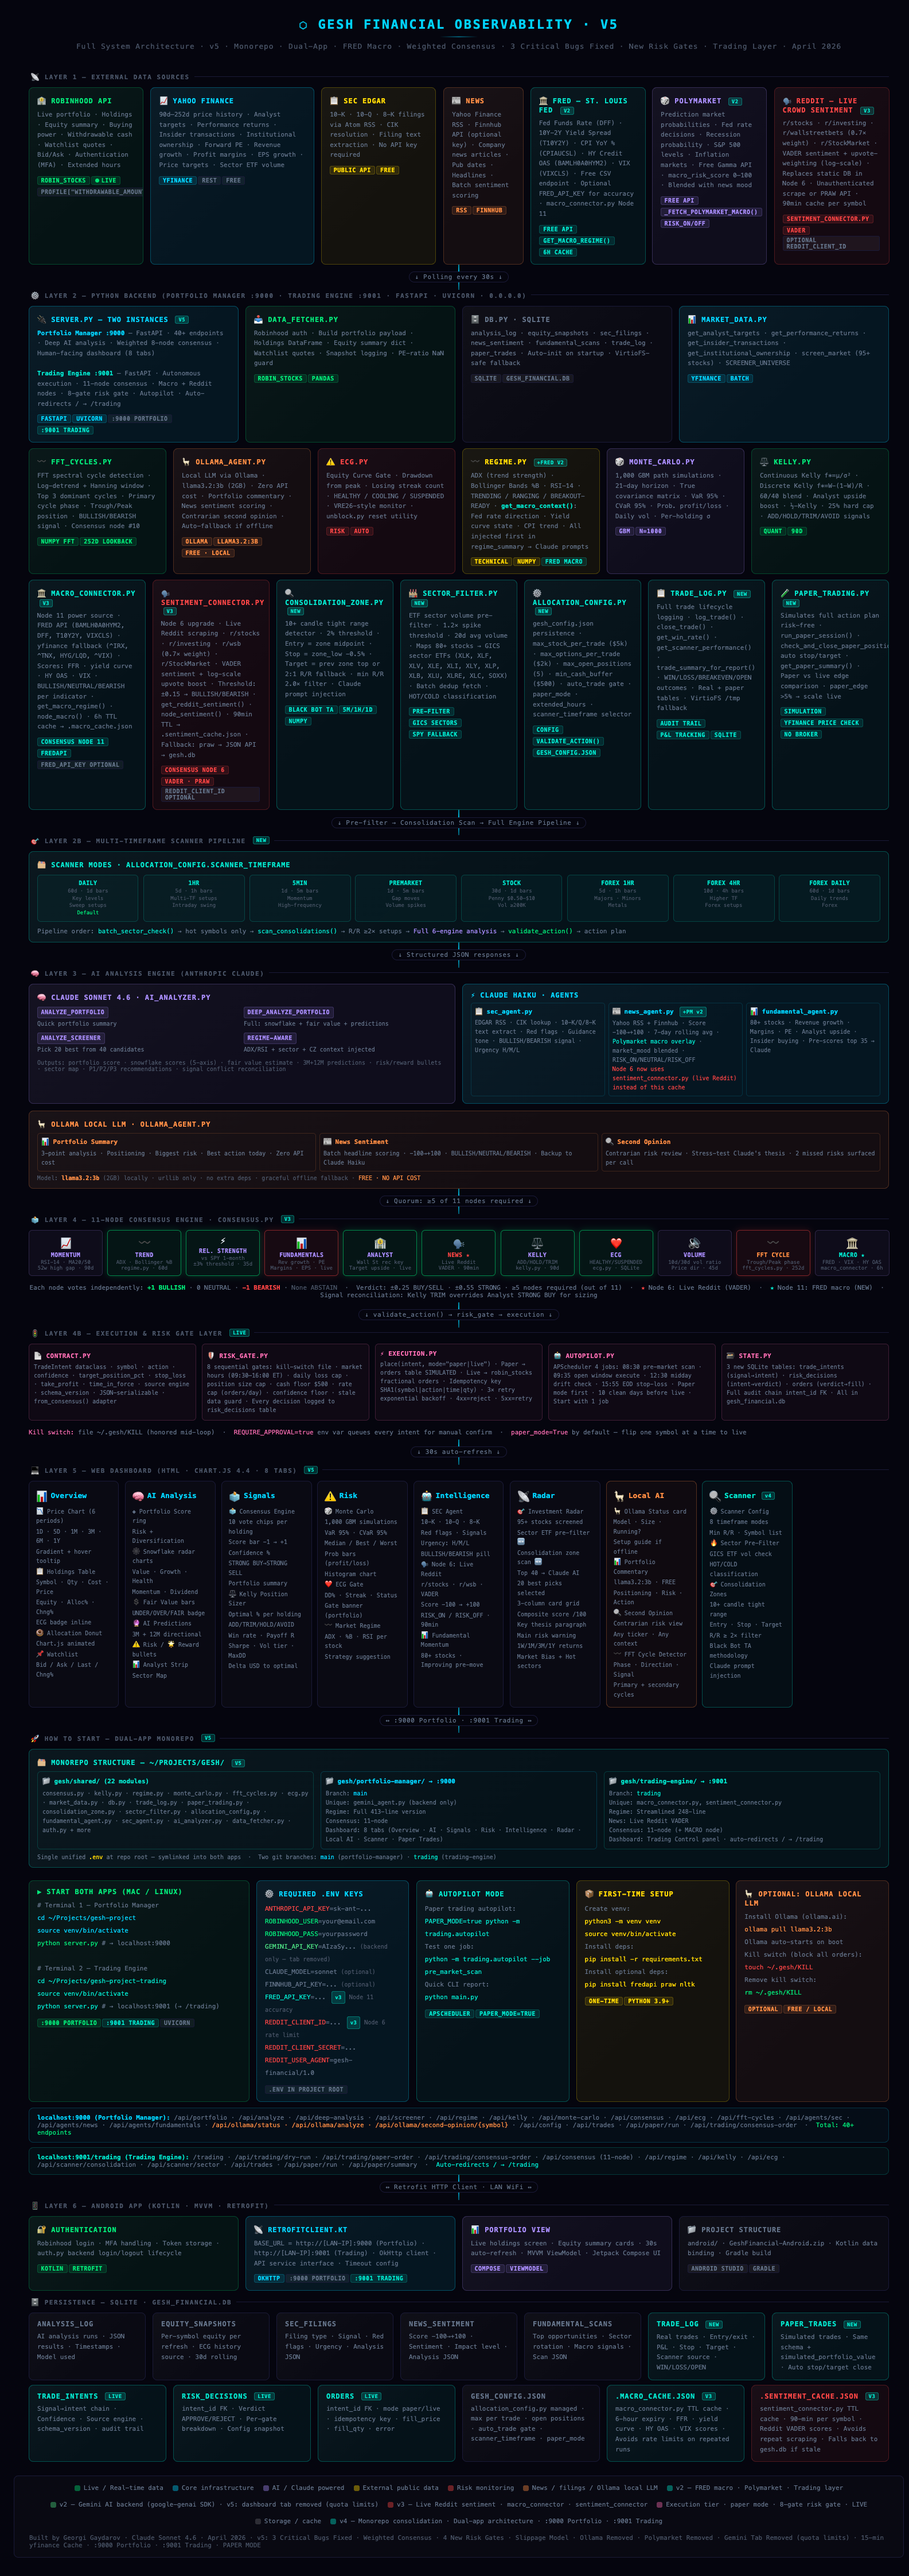
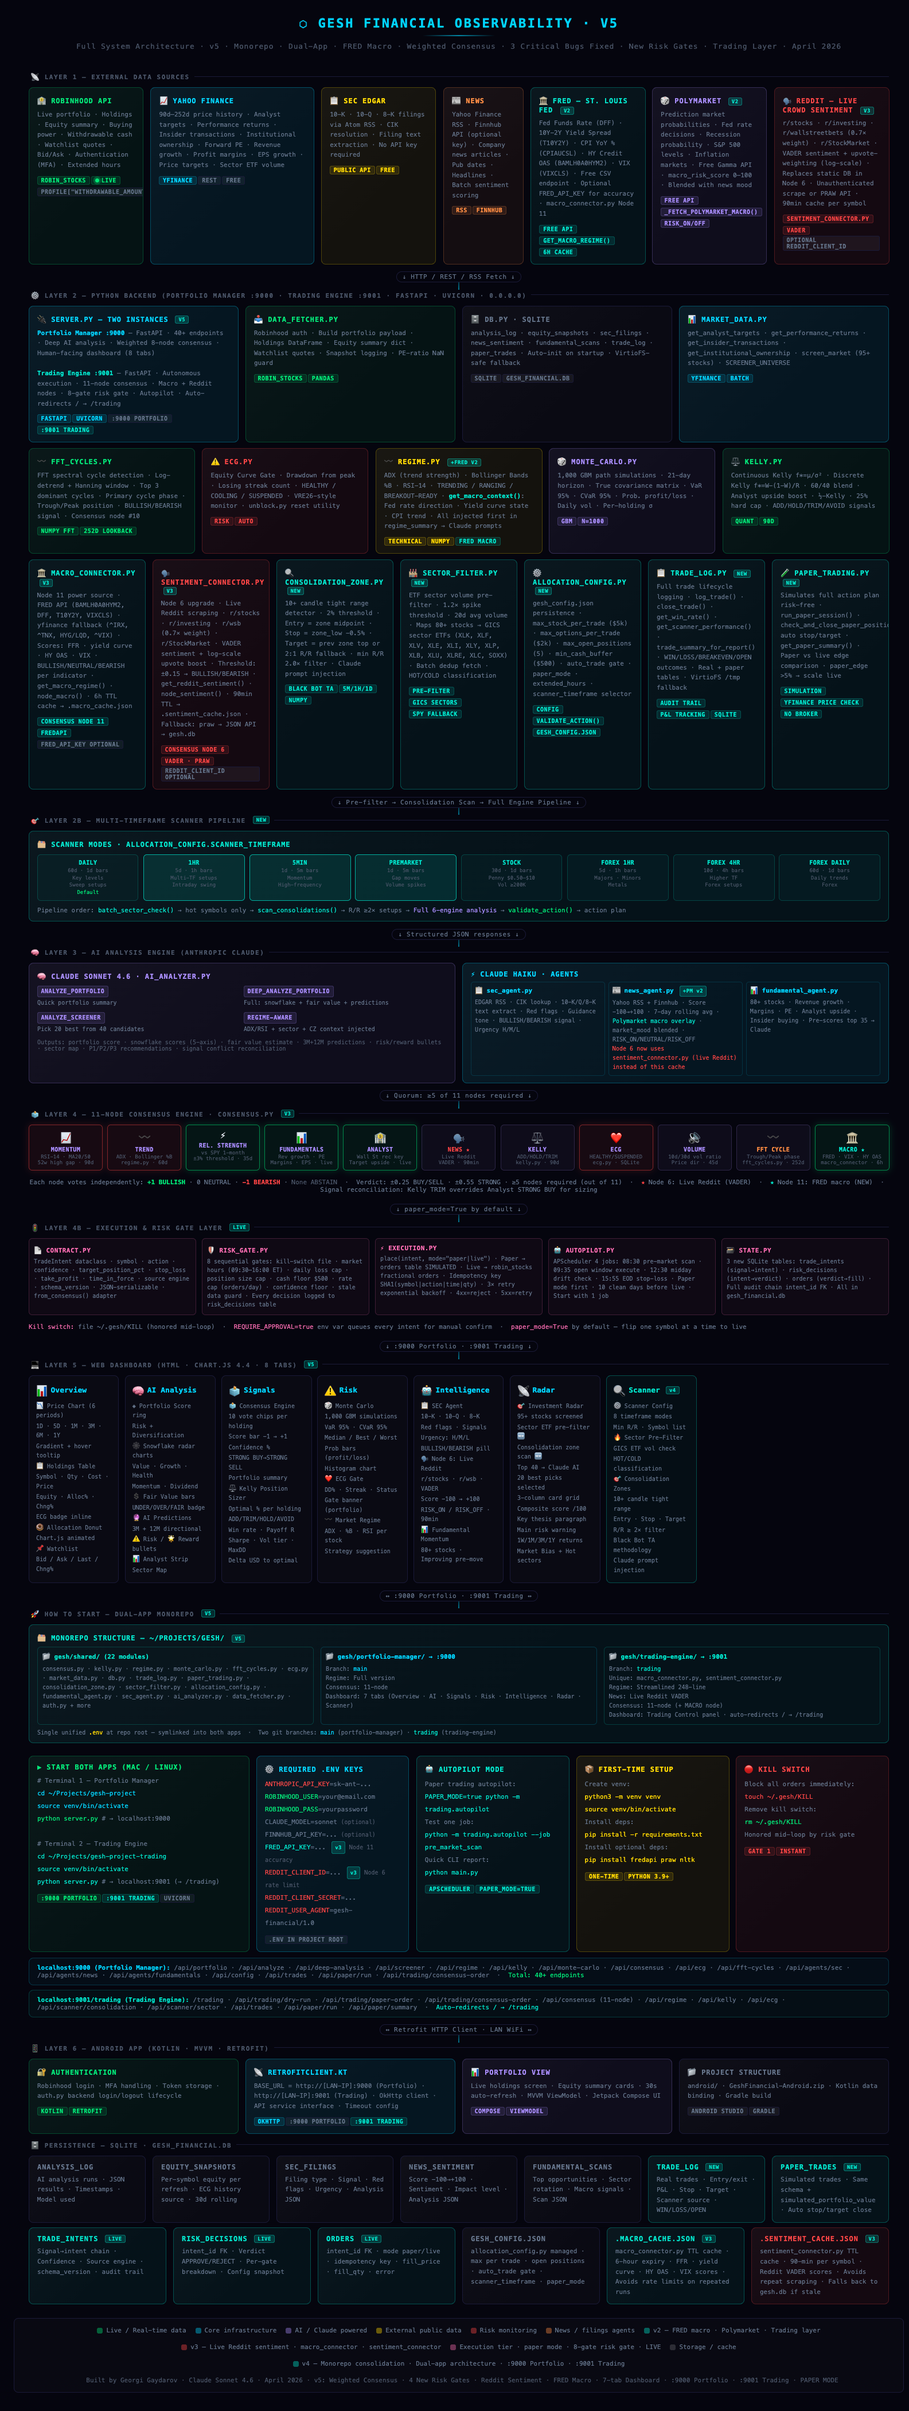
docs: remove Ollama and Gemini — update diagram, screenshot and README

diff --git a/Gesh_Architecture_Diagram.html b/Gesh_Architecture_Diagram.html
@@ -254,11 +254,6 @@ body::before{content:'';position:fixed;inset:0;pointer-events:none;z-index:0;
         <div class="box-body">FFT spectral cycle detection · Log-detrend + Hanning window · Top 3 dominant cycles · Primary cycle phase · Trough/Peak position · BULLISH/BEARISH signal · Consensus node #10</div>
         <div style="margin-top:6px"><span class="tag t-green">NumPy FFT</span><span class="tag t-green">252d lookback</span></div>
       </div>
-      <div class="box c-orange w2">
-        <div class="box-title">🦙 ollama_agent.py</div>
-        <div class="box-body">Local LLM via Ollama · llama3.2:3b (2GB) · Zero API cost · Portfolio commentary · News sentiment scoring · Contrarian second opinion · Auto-fallback if offline</div>
-        <div style="margin-top:6px"><span class="tag t-orange">Ollama</span><span class="tag t-orange">llama3.2:3b</span><span class="tag t-orange">FREE · LOCAL</span></div>
-      </div>
       <div class="box c-red w2">
         <div class="box-title">⚠ ecg.py</div>
         <div class="box-body">Equity Curve Gate · Drawdown from peak · Losing streak count · HEALTHY / COOLING / SUSPENDED · VRE26-style monitor · unblock.py reset utility</div>
@@ -403,24 +398,6 @@ body::before{content:'';position:fixed;inset:0;pointer-events:none;z-index:0;
           </div>
         </div>
       </div>
-    </div>
-    <div class="box c-orange full" style="margin-top:12px">
-      <div class="box-title">🦙 Ollama Local LLM · ollama_agent.py</div>
-      <div class="box-body" style="display:grid;grid-template-columns:1fr 1fr 1fr;gap:6px;margin-top:4px">
-        <div style="padding:6px;border:1px solid rgba(255,140,66,.18);border-radius:5px">
-          <div style="font-size:11px;font-weight:700;color:var(--orange);margin-bottom:3px">📊 Portfolio Summary</div>
-          <div style="font-size:10px;color:var(--muted2)">3-point analysis · Positioning · Biggest risk · Best action today · Zero API cost</div>
-        </div>
-        <div style="padding:6px;border:1px solid rgba(255,140,66,.18);border-radius:5px">
-          <div style="font-size:11px;font-weight:700;color:var(--orange);margin-bottom:3px">📰 News Sentiment</div>
-          <div style="font-size:10px;color:var(--muted2)">Batch headline scoring · −100→+100 · BULLISH/NEUTRAL/BEARISH · Backup to Claude Haiku</div>
-        </div>
-        <div style="padding:6px;border:1px solid rgba(255,140,66,.18);border-radius:5px">
-          <div style="font-size:11px;font-weight:700;color:var(--orange);margin-bottom:3px">🔍 Second Opinion</div>
-          <div style="font-size:10px;color:var(--muted2)">Contrarian risk review · Stress-test Claude's thesis · 2 missed risks surfaced per call</div>
-        </div>
-      </div>
-      <div style="margin-top:6px;font-size:10px;color:var(--muted)">Model: <strong style="color:var(--orange)">llama3.2:3b</strong> (2GB) locally · urllib only · no extra deps · graceful offline fallback · <span style="color:var(--orange)">FREE · NO API COST</span></div>
     </div>
   </div>
 
@@ -634,23 +611,6 @@ body::before{content:'';position:fixed;inset:0;pointer-events:none;z-index:0;
           <span>Market Bias + Hot sectors</span>
         </div>
       </div>
-      <div class="tab-box" style="border-color:rgba(255,140,66,.3);background:rgba(255,140,66,.04)">
-        <div class="tab-name" style="color:var(--orange)"><span class="tab-icon">🦙</span>Local AI</div>
-        <div class="tab-feat">
-          <span>🦙 Ollama Status card</span>
-          <span>Model · Size · Running?</span>
-          <span>Setup guide if offline</span>
-          <span>📊 Portfolio Commentary</span>
-          <span>llama3.2:3b · FREE</span>
-          <span>Positioning · Risk · Action</span>
-          <span>🔍 Second Opinion</span>
-          <span>Contrarian risk view</span>
-          <span>Any ticker · Any context</span>
-          <span>〰 FFT Cycle Detector</span>
-          <span>Phase · Direction · Signal</span>
-          <span>Primary + secondary cycles</span>
-        </div>
-      </div>
       <div class="tab-box" style="border-color:rgba(0,229,204,.3);background:rgba(0,229,204,.04)">
         <div class="tab-name" style="color:var(--teal)"><span class="tab-icon">🔍</span>Scanner <span class="new-badge">v4</span></div>
         <div class="tab-feat">
@@ -686,7 +646,7 @@ body::before{content:'';position:fixed;inset:0;pointer-events:none;z-index:0;
           </div>
           <div style="padding:8px;border:1px solid rgba(0,212,255,.2);border-radius:6px">
             <div style="font-size:11px;font-weight:700;color:var(--accent);margin-bottom:4px">📁 gesh/portfolio-manager/ → :9000</div>
-            <div style="font-size:10px;color:var(--muted2)">Branch: <span style="color:var(--accent)">main</span><br>Unique: gemini_agent.py (backend only)<br>Regime: Full 413-line version<br>Consensus: 11-node<br>Dashboard: 8 tabs (Overview · AI · Signals · Risk · Intelligence · Radar · Local AI · Scanner · Paper Trades)</div>
+            <div style="font-size:10px;color:var(--muted2)">Branch: <span style="color:var(--accent)">main</span><br>Regime: Full version<br>Consensus: 11-node<br>Dashboard: 7 tabs (Overview · AI · Signals · Risk · Intelligence · Radar · Scanner)</div>
           </div>
           <div style="padding:8px;border:1px solid rgba(0,229,204,.2);border-radius:6px">
             <div style="font-size:11px;font-weight:700;color:var(--teal);margin-bottom:4px">📁 gesh/trading-engine/ → :9001</div>
@@ -715,7 +675,6 @@ body::before{content:'';position:fixed;inset:0;pointer-events:none;z-index:0;
           <span style="color:var(--red)">ANTHROPIC_API_KEY</span>=sk-ant-...<br>
           <span style="color:var(--green)">ROBINHOOD_USER</span>=your@email.com<br>
           <span style="color:var(--green)">ROBINHOOD_PASS</span>=yourpassword<br>
-          <span style="color:#4ade80">GEMINI_API_KEY</span>=AIzaSy... <span style="color:var(--muted);font-size:10px">(backend only — tab removed)</span><br>
           <span style="color:var(--muted2)">CLAUDE_MODEL</span>=sonnet <span style="color:var(--muted);font-size:10px">(optional)</span><br>
           <span style="color:var(--muted2)">FINNHUB_API_KEY</span>=... <span style="color:var(--muted);font-size:10px">(optional)</span><br>
           <span style="color:var(--teal)">FRED_API_KEY</span>=... <span class="new-badge">v3</span> <span style="color:var(--muted);font-size:10px">Node 11 accuracy</span><br>
@@ -750,25 +709,22 @@ body::before{content:'';position:fixed;inset:0;pointer-events:none;z-index:0;
         </div>
         <div style="margin-top:6px"><span class="tag t-yellow">One-time</span><span class="tag t-yellow">Python 3.9+</span></div>
       </div>
-      <div class="box c-orange w2">
-        <div class="box-title">🦙 Optional: Ollama Local LLM</div>
+      <div class="box c-red w2">
+        <div class="box-title">🔴 Kill Switch</div>
         <div class="box-body" style="font-family:var(--font);line-height:2;font-size:11px">
-          <span style="color:var(--muted2)">Install Ollama (ollama.ai):</span><br>
-          <span style="color:var(--orange)">ollama pull llama3.2:3b</span><br>
-          <span style="color:var(--muted2)">Ollama auto-starts on boot</span><br>
-          <span style="color:var(--muted2)">Kill switch (block all orders):</span><br>
+          <span style="color:var(--muted2)">Block all orders immediately:</span><br>
           <span style="color:var(--red)">touch ~/.gesh/KILL</span><br>
           <span style="color:var(--muted2)">Remove kill switch:</span><br>
-          <span style="color:var(--green)">rm ~/.gesh/KILL</span>
+          <span style="color:var(--green)">rm ~/.gesh/KILL</span><br>
+          <span style="color:var(--muted2)">Honored mid-loop by risk gate</span>
         </div>
-        <div style="margin-top:6px"><span class="tag t-orange">Optional</span><span class="tag t-orange">Free / Local</span></div>
+        <div style="margin-top:6px"><span class="tag t-red">Gate 1</span><span class="tag t-red">Instant</span></div>
       </div>
     </div>
     <div style="margin-top:10px;padding:10px 14px;border:1px solid rgba(0,212,255,.2);border-radius:8px;background:rgba(0,212,255,.04);font-size:11px;color:var(--muted2)">
       <span style="color:var(--accent);font-weight:700">localhost:9000 (Portfolio Manager):</span>
       /api/portfolio · /api/analyze · /api/deep-analysis · /api/screener · /api/regime · /api/kelly · /api/monte-carlo · /api/consensus · /api/ecg · /api/fft-cycles
       · /api/agents/sec · /api/agents/news · /api/agents/fundamentals
-      · <span style="color:var(--orange)">/api/ollama/status · /api/ollama/analyze · /api/ollama/second-opinion/{symbol}</span>
       · /api/config · /api/trades · /api/paper/run · /api/trading/consensus-order
       &nbsp;·&nbsp; <span style="color:var(--green)">Total: 40+ endpoints</span>
     </div>
@@ -842,14 +798,13 @@ body::before{content:'';position:fixed;inset:0;pointer-events:none;z-index:0;
   <div class="leg-item"><div class="leg-dot" style="background:rgba(167,139,250,.4)"></div> AI / Claude powered</div>
   <div class="leg-item"><div class="leg-dot" style="background:rgba(255,215,0,.4)"></div> External public data</div>
   <div class="leg-item"><div class="leg-dot" style="background:rgba(255,68,68,.4)"></div> Risk monitoring</div>
-  <div class="leg-item"><div class="leg-dot" style="background:rgba(255,140,66,.4)"></div> News / filings / Ollama local LLM</div>
+  <div class="leg-item"><div class="leg-dot" style="background:rgba(255,140,66,.4)"></div> News / filings agents</div>
   <div class="leg-item"><div class="leg-dot" style="background:rgba(0,229,204,.4)"></div> v2 — FRED macro · Polymarket · Trading layer</div>
-  <div class="leg-item"><div class="leg-dot" style="background:rgba(74,222,128,.4)"></div> v2 — Gemini AI backend (google-genai SDK) · v5: dashboard tab removed (quota limits)</div>
   <div class="leg-item"><div class="leg-dot" style="background:rgba(255,68,68,.4)"></div> v3 — Live Reddit sentiment · macro_connector · sentiment_connector</div>
   <div class="leg-item"><div class="leg-dot" style="background:rgba(255,110,180,.4)"></div> Execution tier · paper mode · 8-gate risk gate · LIVE</div>
   <div class="leg-item"><div class="leg-dot" style="background:rgba(255,255,255,.15)"></div> Storage / cache</div>
   <div class="leg-item"><div class="leg-dot" style="background:rgba(0,229,204,.4)"></div> v4 — Monorepo consolidation · Dual-app architecture · :9000 Portfolio · :9001 Trading</div>
-  <div class="leg-item" style="margin-left:12px;color:var(--muted)">Built by Georgi Gaydarov · Claude Sonnet 4.6 · April 2026 · v5: 3 Critical Bugs Fixed · Weighted Consensus · 4 New Risk Gates · Slippage Model · Ollama Removed · Polymarket Removed · Gemini Tab Removed (quota limits) · 15-min yfinance Cache · :9000 Portfolio · :9001 Trading · PAPER MODE</div>
+  <div class="leg-item" style="margin-left:12px;color:var(--muted)">Built by Georgi Gaydarov · Claude Sonnet 4.6 · April 2026 · v5: Weighted Consensus · 4 New Risk Gates · Reddit Sentiment · FRED Macro · 7-tab Dashboard · :9000 Portfolio · :9001 Trading · PAPER MODE</div>
 </div>
 
 <script>

diff --git a/README.md b/README.md
@@ -155,11 +155,8 @@ Open **http://localhost:9000** for the dashboard.
 |---|---|---|
 | `claude-sonnet-4-6` | Anthropic | Deep portfolio analysis, screener, SEC, fundamentals |
 | `claude-haiku-4-5-20251001` | Anthropic | Batch news sentiment (fast + cheap) |
-| `gemini-2.5-flash` | Google | High-volume batch tasks, market commentary, second opinion |
-| `gemini-2.5-pro` | Google | Contrarian second opinion on STRONG BUY signals |
-| `llama3.2:3b` (Ollama) | Local | Portfolio commentary, offline fallback, zero API cost |
 
-**Routing rule:** Cheap/high-volume tasks → Haiku or Gemini Flash. Complex reasoning → Sonnet. Independent second opinion → Gemini Pro.
+**Routing rule:** High-volume/batch tasks → Haiku. Complex reasoning and deep analysis → Sonnet.
 
 ---
 
@@ -282,10 +279,6 @@ zone_symbols = [r["symbol"] for r in cz_report["found"]]
 | `/api/agents/sec` | POST | Watch SEC EDGAR filings |
 | `/api/agents/news` | POST | Scan news sentiment |
 | `/api/agents/fundamentals` | POST | Run full fundamental scan |
-| `/api/ollama/analyze` | POST | Ollama portfolio commentary |
-| `/api/gemini/analyze` | POST | Gemini Flash portfolio commentary |
-| `/api/gemini/second-opinion/{symbol}` | POST | Gemini Pro contrarian review |
-| `/api/gemini/market-commentary` | POST | Macro market narrative |
 
 ### Trading Pipeline
 
